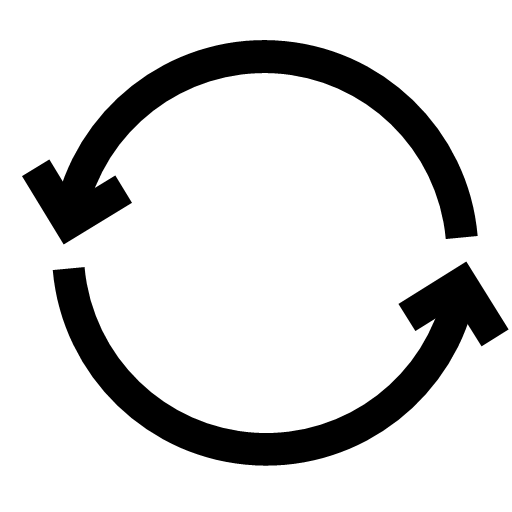
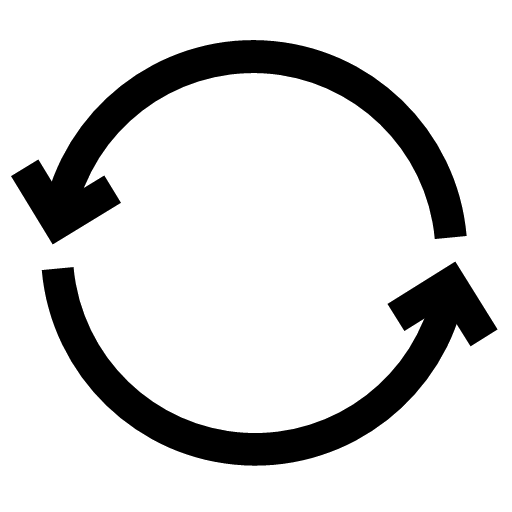
soltando a carniça

diff --git a/index.js b/index.js
@@ -3,15 +3,18 @@ const increase = document.querySelector("button#increase")
 const decrease = document.querySelector("button#decrease")
 const infoButt = document.querySelector("button#buttHelp")
 const closeButt = document.querySelector("button#close")
+const autoRollButt = document.querySelector("button#buttAutoRoll")
 
 const help = document.querySelector("div#help")
+const winAmount = document.querySelector("#winAmount")
+const restart = document.querySelector("#restart")
 
 const amount = document.querySelector("input#amount")
 const balance = document.querySelector("span#balance")
 
-const slot1 = document.querySelector("input#s1")
-const slot2 = document.querySelector("input#s2")
-const slot3 = document.querySelector("input#s3")
+const input1 = document.querySelector("input#s1")
+const input2 = document.querySelector("input#s2")
+const input3 = document.querySelector("input#s3")
 
 const windows = document.querySelectorAll("span.slot")
 
@@ -19,31 +22,45 @@ const img1 = document.querySelector("img#i1")
 const img2 = document.querySelector("img#i2")
 const img3 = document.querySelector("img#i3")
 
-const slots = [slot1, slot2, slot3]
+const inputs = [input1, input2, input3]
 
-let interval, generated = [0, 0, 0]
+let interval, autoRoll = false, generated = [0, 0, 0]
 
-decrease.addEventListener("click", e => {
-    amount.value = Math.max(0, parseFloat(amount.value) - 1)
+balance.innerText = localStorage.getItem("urubet") ?? 10
+
+restart.addEventListener("click", _ => {
+    localStorage.removeItem("urubet")
+    location.reload()
 })
 
-increase.addEventListener("click", e => {
+decrease.addEventListener("click", _ => {
+    amount.value = Math.max(0, parseFloat(amount.value) - 1)
+})
+increase.addEventListener("click", _ => {
     amount.value = Math.min(parseFloat(balance.innerText), parseFloat(amount.value) + 1)
 })
 
-infoButt.addEventListener("click", e => {
+infoButt.addEventListener("click", _ => {
     help.style.display = "flex"
 })
-closeButt.addEventListener("click", e => {
+closeButt.addEventListener("click", _ => {
     help.style.display = "none"
 })
+autoRollButt.addEventListener("click", _ => {
+    if (autoRoll) {
+        autoRollButt.querySelector("img").classList.remove("autoRoll")
+    } else {
+        autoRollButt.querySelector("img").classList.add("autoRoll")
+    }
+    autoRoll = !autoRoll
+})
 
-rollButt.addEventListener("click", e => {
+rollButt.addEventListener("click", _ => {
+    winAmount.classList.remove("winnimation")
     for (const w of windows) {
         w.classList.remove("win")
     }
-    
-    
+
     if (!amount.value || parseFloat(amount.value) < 0) return
 
     if (parseFloat(amount.value) <= parseFloat(balance.innerText)) {
@@ -62,13 +79,13 @@ rollButt.addEventListener("click", e => {
 
         balance.innerText -= amount.value
 
-        slot1.setAttribute("rolls", 0)
-        slot2.setAttribute("rolls", 0)
-        slot3.setAttribute("rolls", 0)
+        input1.setAttribute("rolls", 0)
+        input2.setAttribute("rolls", 0)
+        input3.setAttribute("rolls", 0)
 
-        slot1.removeAttribute("done")
-        slot2.removeAttribute("done")
-        slot3.removeAttribute("done")
+        input1.removeAttribute("done")
+        input2.removeAttribute("done")
+        input3.removeAttribute("done")
 
         clearInterval(interval)
         interval = setInterval(roll, 70)
@@ -82,40 +99,40 @@ rollButt.addEventListener("click", e => {
 })
 
 function roll() {
-    if (slot1.getAttribute("rolls") < 30) {
-        slot1.innerText = Math.floor((Math.random() * 5) + 1)
-        img1.src = "images/imagem" + slot1.innerText + ".png"
-        slot1.setAttribute("rolls", parseInt(slot1.getAttribute("rolls")) + 1)
+    if (input1.getAttribute("rolls") < 30) {
+        input1.innerText = Math.floor((Math.random() * 5) + 1)
+        img1.src = "images/imagem" + input1.innerText + ".png"
+        input1.setAttribute("rolls", parseInt(input1.getAttribute("rolls")) + 1)
     } else {
-        slot1.innerText = generated[0]
-        img1.src = "images/imagem" + slot1.innerText + ".png"
+        input1.innerText = generated[0]
+        img1.src = "images/imagem" + input1.innerText + ".png"
         img1.style.animation = "spinFinish .2s ease-in-out"
-        slot1.setAttribute("done", true)
+        input1.setAttribute("done", true)
     }
 
-    if (slot2.getAttribute("rolls") < 40) {
-        slot2.innerText = Math.floor((Math.random() * 5) + 1)
-        img2.src = "images/imagem" + slot2.innerText + ".png"
-        slot2.setAttribute("rolls", parseInt(slot2.getAttribute("rolls")) + 1)
+    if (input2.getAttribute("rolls") < 40) {
+        input2.innerText = Math.floor((Math.random() * 5) + 1)
+        img2.src = "images/imagem" + input2.innerText + ".png"
+        input2.setAttribute("rolls", parseInt(input2.getAttribute("rolls")) + 1)
     } else {
-        slot2.innerText = generated[1]
-        img2.src = "images/imagem" + slot2.innerText + ".png"
+        input2.innerText = generated[1]
+        img2.src = "images/imagem" + input2.innerText + ".png"
         img2.style.animation = "spinFinish .2s ease-in-out"
-        slot2.setAttribute("done", true)
+        input2.setAttribute("done", true)
     }
 
-    if (slot3.getAttribute("rolls") < 50) {
-        slot3.innerText = Math.floor((Math.random() * 5) + 1)
-        img3.src = "images/imagem" + slot3.innerText + ".png"
-        slot3.setAttribute("rolls", parseInt(slot3.getAttribute("rolls")) + 1)
+    if (input3.getAttribute("rolls") < 50) {
+        input3.innerText = Math.floor((Math.random() * 5) + 1)
+        img3.src = "images/imagem" + input3.innerText + ".png"
+        input3.setAttribute("rolls", parseInt(input3.getAttribute("rolls")) + 1)
     } else {
-        slot3.innerText = generated[2]
-        img3.src = "images/imagem" + slot3.innerText + ".png"
+        input3.innerText = generated[2]
+        img3.src = "images/imagem" + input3.innerText + ".png"
         img3.style.animation = "spinFinish .2s ease-in-out"
-        slot3.setAttribute("done", true)
+        input3.setAttribute("done", true)
     }
 
-    if (slot1.getAttribute("done") && slot2.getAttribute("done") && slot3.getAttribute("done")) {
+    if (input1.getAttribute("done") && input2.getAttribute("done") && input3.getAttribute("done")) {
         rollButt.style.filter = ""
         rollButt.disabled = false
         amount.disabled = false
@@ -127,20 +144,37 @@ function roll() {
 }
 
 function check() {
-    if (slot1.innerText == slot2.innerText && slot2.innerText == slot3.innerText) {
+    winAmount.innerText = 0
+    let won = false
+    if (input1.innerText == input2.innerText && input2.innerText == input3.innerText) {
+        won = true
         win()
     }
-    if (slots.some(s => s.innerText == 1)) {
-        slots.forEach(s => {
+    if (inputs.some(s => s.innerText == 1)) {
+        let bonus = 0
+        inputs.forEach(s => {
             if (s.innerText == 1) {
-                balance.innerText = parseFloat(balance.innerText) + amount.value * 1.5
+                bonus += amount.value * 1.5
             }
         })
+        balance.innerText = parseFloat(balance.innerText) + bonus
+        winAmount.innerText = parseFloat(winAmount.innerText) + bonus
     }
+    if (autoRoll) {
+        setTimeout(() => rollButt.click(), won ? 1500 : 500)
+    }
+    if (winAmount.innerText != 0) {
+        winAmount.classList.add("winnimation")
+        winAmount.innerText = "+" + winAmount.innerText
+    }
+    localStorage.setItem("urubet", balance.innerText)
 }
 
 function win() {
-    balance.innerText = parseFloat(balance.innerText) + amount.value * parseInt(slot1.innerText) * 2
+    let bonus = amount.value * parseInt(input1.innerText) * 2
+    balance.innerText = parseFloat(balance.innerText) + bonus
+    winAmount.innerText = parseFloat(winAmount.innerText) + bonus
+
     for (const w of windows) {
         w.classList.add("win")
     }

diff --git a/index.css b/index.css
@@ -52,7 +52,7 @@ span.slot {
 }
 @keyframes win {
     50% {
-        background: linear-gradient(180deg, lightgray 0%,rgb(202, 248, 198) 60%, #83afa9 120%); 
+        background: linear-gradient(180deg, lightgray 0%, white 25% , rgb(202, 248, 198) 80%, #83afa9 100%); 
     }
 }
 div#down {
@@ -68,6 +68,7 @@ label#saldo {
     margin: 1em;
     box-shadow: 0 0 1em rgba(0, 0, 0, 0.63);
     background-color: black;
+    display: inline;
 }
 input#amount {
     background-color: #232D3F;
@@ -80,6 +81,31 @@ input#amount {
     border-radius: 2px;
     border: none;
 }
+span#winAmount {
+    position: relative;
+    bottom: 45px;
+    color: #008170;
+    left: 90px;
+    opacity: 0;
+    font-weight: bold;
+}
+span.winnimation {
+    animation: winAmount 1.5s ease-out;
+}
+@keyframes winAmount {
+    0% {
+        opacity: 1;
+    }
+    50% {
+        bottom: 55px;
+    }
+    100% {
+        opacity: 0%;
+        bottom: 60px;
+
+    }
+}
+
 input::-webkit-outer-spin-button,
 input::-webkit-inner-spin-button {
   -webkit-appearance: none;
@@ -118,6 +144,16 @@ img#icon {
     display: inline-block;
     width: 50px;
     height: 50px;
+}
+img#restart {
+    position: fixed;
+    right: 20px;
+    display: inline-block;
+    width: 50px;
+    height: 50px;
+}
+img#restart:hover {
+    cursor: pointer;
 }
 button.changeAmount{
     display: inline-block;
@@ -175,7 +211,7 @@ button#close {
     font-weight: bold;
     font-size: 150%;
 }
-button#buttHelp, button#buttReset {
+button#buttHelp, button#buttAutoRoll {
     border-radius: 15px;
     background: linear-gradient(140deg, #005B41, #008170 100%);
     padding: 30px;
@@ -189,7 +225,7 @@ button#buttHelp, button#buttReset {
     font-weight: bold;
     margin: 5px;
 }
-button#buttHelp img, button#buttReset img {
+button#buttHelp img, button#buttAutoRoll img {
     height: 30px;
     width: 30px;
     filter: invert();
@@ -202,17 +238,34 @@ img.spinImg {
 }
 @keyframes spin {
     0% {
-        transform: translateY(-200%);
+        opacity: 0%; 
+        transform: translateY(-200%);   
+    }
+    50% { 
+        opacity: 1;
     }
     100% {
         transform: translateY(200%);
+        opacity: 0;
     }
 }
 @keyframes spinFinish {
     0% {
+        opacity: 0%;
         transform: translateY(-200%);
+    }
+    50% {
+        opacity: 1;
     }
     100% {
         transform: translateY(0%);
+    }
+}
+img.autoRoll {
+    animation: autoRoll .8s linear infinite;
+}
+@keyframes autoRoll {
+    100% {
+        transform: rotate(360deg);
     }
 }

diff --git a/index.html b/index.html
@@ -1,4 +1,4 @@
-<!DOCTYPE html>
+'<!DOCTYPE html>
 <html lang="pt-br">
     <head>
         <meta charset="UTF-8">
@@ -10,7 +10,6 @@
     <body>
         <script defer type="module" src="index.js"></script>
         <div id="help">
-            
             <div id="table"> 
                 <p>Lembre-se: quanto mais você aposta, mais rico você pode ficar! Não deixe qualquer obstáculo ser uma barreira, aposte seu salário, carro, casa e muito mais!</p>           
                 <div class="tableItem"><img style="filter:invert()" width="50" src="images/imagem1.png" alt=""> 1.5x</div>
@@ -23,6 +22,7 @@
         </div>
         <div id="upper">
             <img id="icon" src="images/imagem1.png"/><h1>UruBET</h1>
+            <img id="restart" src="images/reset.png" alt="Reiniciar">
         </div>
         <div id="container">
             <input class="sortedNumber" id="s1" type="hidden">
@@ -34,7 +34,7 @@
                 <span class="slot" id="w3"><img class="spinImg" id="i3" src="images/imagem1.png"/></span>
             </div>
             <div id="down">
-                <label id="saldo">Saldo: UR$<span id="balance">10</span></label>
+                <label id="saldo">Saldo: UR$<span id="balance">10</span></label><span id="winAmount">0</span>
                 <label for="amount">Aposta: </label>
                 <div id="values">
                     <button class="changeAmount" id="decrease">-</button>
@@ -44,7 +44,7 @@
                 <div id="buttons">
                     <button id="buttHelp"><img src="images/help.png" width="50"></button>
                     <button id="buttRoll">Rolar</button>
-                    <button id="buttReset" onClick="window.location.reload()"><img src="images/restart.png" width="50"></button>
+                    <button id="buttAutoRoll"><img src="images/restart.png" width="50"></button>
                 </div>
             </div>
         </div>
